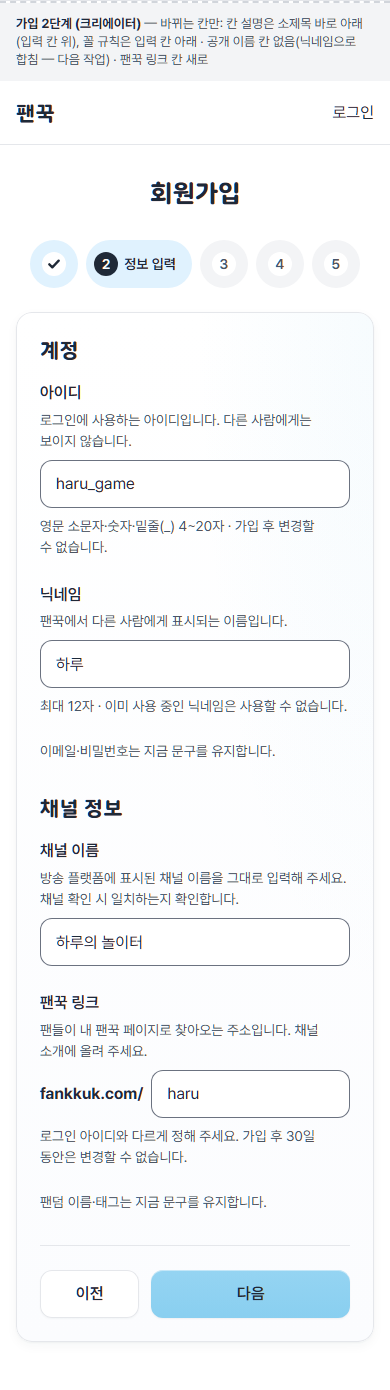
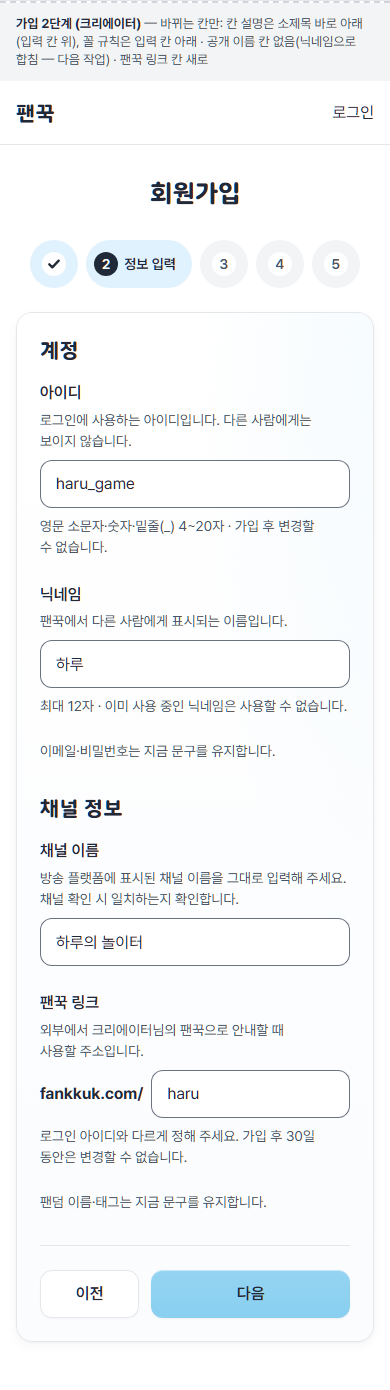
docs(fankkuk): 채널 확인 시안 — 가입 2단계 팬꾹 링크 설명 사용자 문안으로

Changed region(s): [[0.0923, 0.7115, 0.7385, 0.7734], [0.7692, 0.7115, 0.8, 0.7424]]

diff --git a/projects/fankkuk/docs/design/mockups/channel-link-verify-20261102/index.html b/projects/fankkuk/docs/design/mockups/channel-link-verify-20261102/index.html
@@ -12,7 +12,7 @@
 <p class="hint" style="margin:0">이메일·비밀번호는 지금 문구를 유지합니다.</p></div>
 <h3 class="t-card" style="margin:32px 0 16px">채널 정보</h3><div class="form">
 <div><label class="label" for="s2-ch">채널 이름</label><p class="v-desc">방송 플랫폼에 표시된 채널 이름을 그대로 입력해 주세요. 채널 확인 시 일치하는지 확인합니다.</p><input class="field" id="s2-ch" placeholder="예: 꿀단지TV" value="하루의 놀이터"></div>
-<div><label class="label" for="s2-link">팬꾹 링크</label><p class="v-desc">팬들이 내 팬꾹 페이지로 찾아오는 주소입니다. 채널 소개에 올려 주세요.</p><div class="vp-handle"><span class="pre">fankkuk.com/</span><input class="field" id="s2-link" placeholder="haru" value="haru"></div><p class="hint">로그인 아이디와 다르게 정해 주세요. 가입 후 30일 동안은 변경할 수 없습니다.</p></div>
+<div><label class="label" for="s2-link">팬꾹 링크</label><p class="v-desc">외부에서 크리에이터님의 팬꾹으로 안내할 때 사용할 주소입니다.</p><div class="vp-handle"><span class="pre">fankkuk.com/</span><input class="field" id="s2-link" placeholder="haru" value="haru"></div><p class="hint">로그인 아이디와 다르게 정해 주세요. 가입 후 30일 동안은 변경할 수 없습니다.</p></div>
 <p class="hint" style="margin:0">팬덤 이름·태그는 지금 문구를 유지합니다.</p></div>
 </fieldset><div class="su-step-actions"><button class="btn btn--line" type="button">이전</button><button class="btn su-next" type="submit">다음</button></div></form></div></section></main></section>
 <section class="v-state" id="link-needed"><span class="v-label"><b>link_needed (계정 설정)</b> — 가입 2단계에서 팬꾹 링크를 만들기 전에 가입한 기존 크리에이터만. 새로 가입하는 사람은 가입 4단계에서 이 상태를 보지 않는다. 「만들기」를 누르면 「정하면 30일 동안 바꿀 수 없어요」 확인 창(설정 화면과 같음)</span><div class="v-bar"><b>팬꾹</b><span>로그인</span></div><main><div class="v-wrap720"><div class="head" style="margin-bottom:24px"><h1 class="t-title">계정 설정</h1></div><section class="card"><fieldset class="su-step" style="margin:0"><legend class="sr-only">채널 소유자 확인</legend><div class="vp-head"><h2 class="t-card">채널 소유자 확인</h2><span class="tag">확인 전</span></div><p class="sub su-lead">다른 사람이 내 채널로 가입하지 못하도록, 채널 소유자를 확인해 주세요.<br>팬이 선물을 보낼 수 있게 팬꾹 링크를 채널 소개에 올려 주세요. 올라와 있으면 채널 확인도 같이 끝나요.</p><div class="vp-box"><label class="vp-label" for="h0">내 팬꾹 링크</label><div class="vp-handle"><span class="pre">fankkuk.com/</span><input class="field" id="h0" placeholder="haru"><button class="btn btn--sm" type="button">만들기</button></div></div></fieldset></section></div></main></section>
